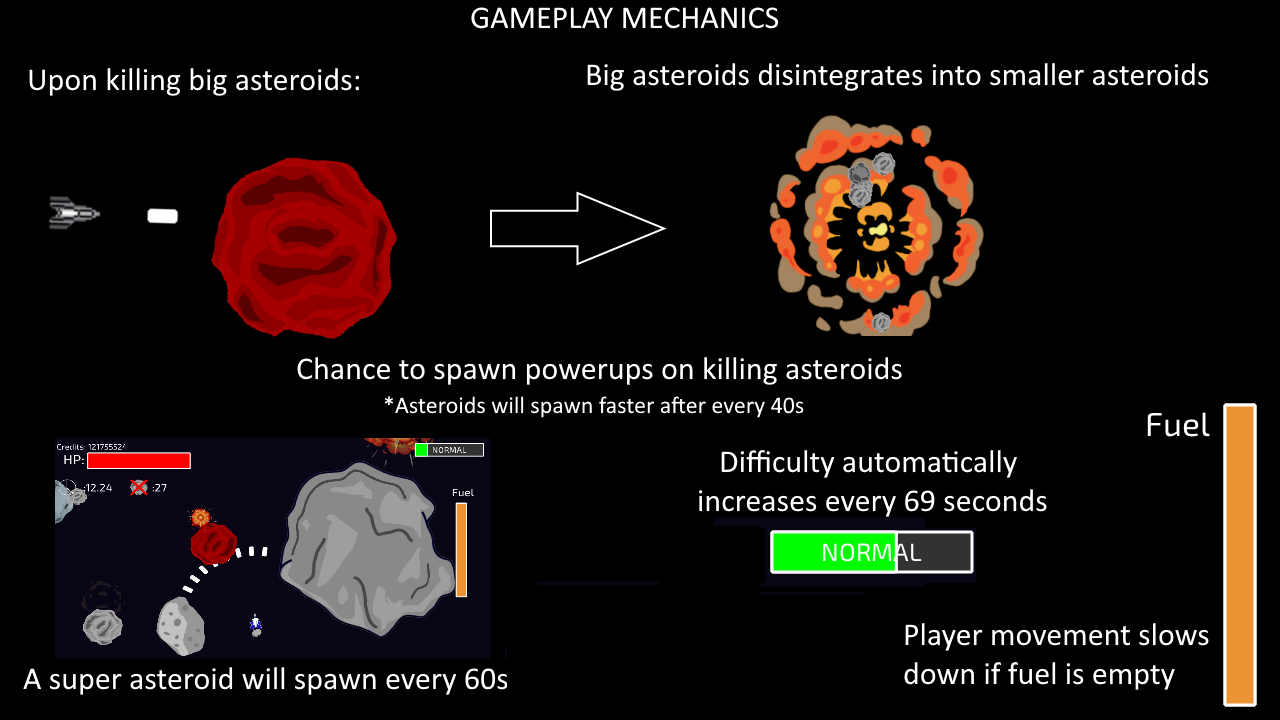
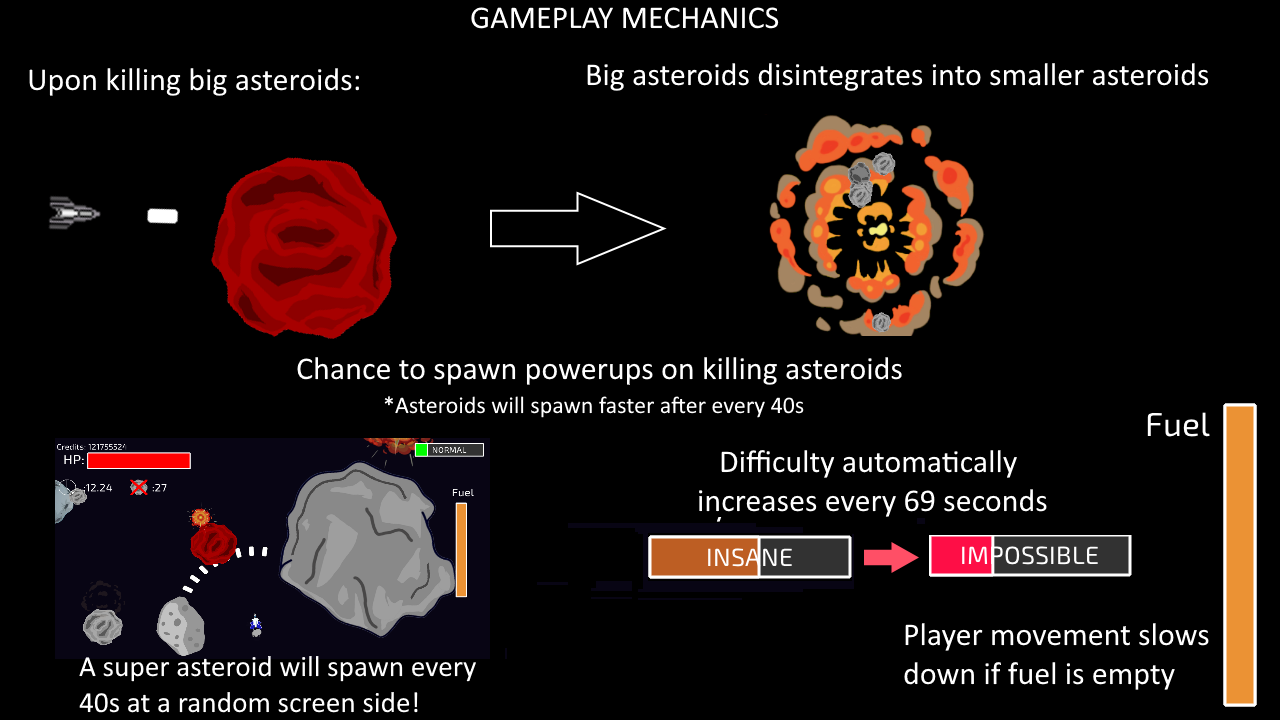
change bigboy spawn timer to 40

Changed region(s): [[0.5, 0.7333, 0.9062, 0.825], [0.0, 0.9167, 0.4062, 1.0]]

diff --git a/src/asteroids/constants.c b/src/asteroids/constants.c
@@ -138,7 +138,7 @@ const int ASTEROIDS_CURRENCY_EARNING_BALANCE_MAX = 5;
 
 
 /*				DIFFICULTY CONSTANTS						*/
-const float ASTEROIDS_DIFFICULTY_INTERVAL = 60.0f;// ChAng
+const float ASTEROIDS_DIFFICULTY_INTERVAL = 5.0f;// ChAng
 const int ASTEROIDS_DIFFICULTY_CAP = 10;
 
 
